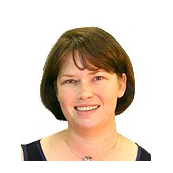
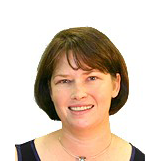
mlcourse
added Kamal picture

Changed region(s): [[0.0932, 0.1553, 0.9006, 1.0]]

diff --git a/mlcourse.html b/mlcourse.html
@@ -365,6 +365,12 @@
                                             <p>Uri Shalit, PhD<br>Technion, Industrial Eng.</p>
                                         </div> 
                                     </li>
+                                    <li style="display: inline-block;vertical-align: middle; padding-right: 10px">
+                                        <div class="instructor">
+                                            <img class="headshot" src="./img/team/Kamal Masarweh.png">
+                                            <p>Kamal Masarweh, MD<br>Rambam Hospital</p>
+                                        </div> 
+                                    </li>
                                 </ul> 
                             </div>                                      
                         </div>
